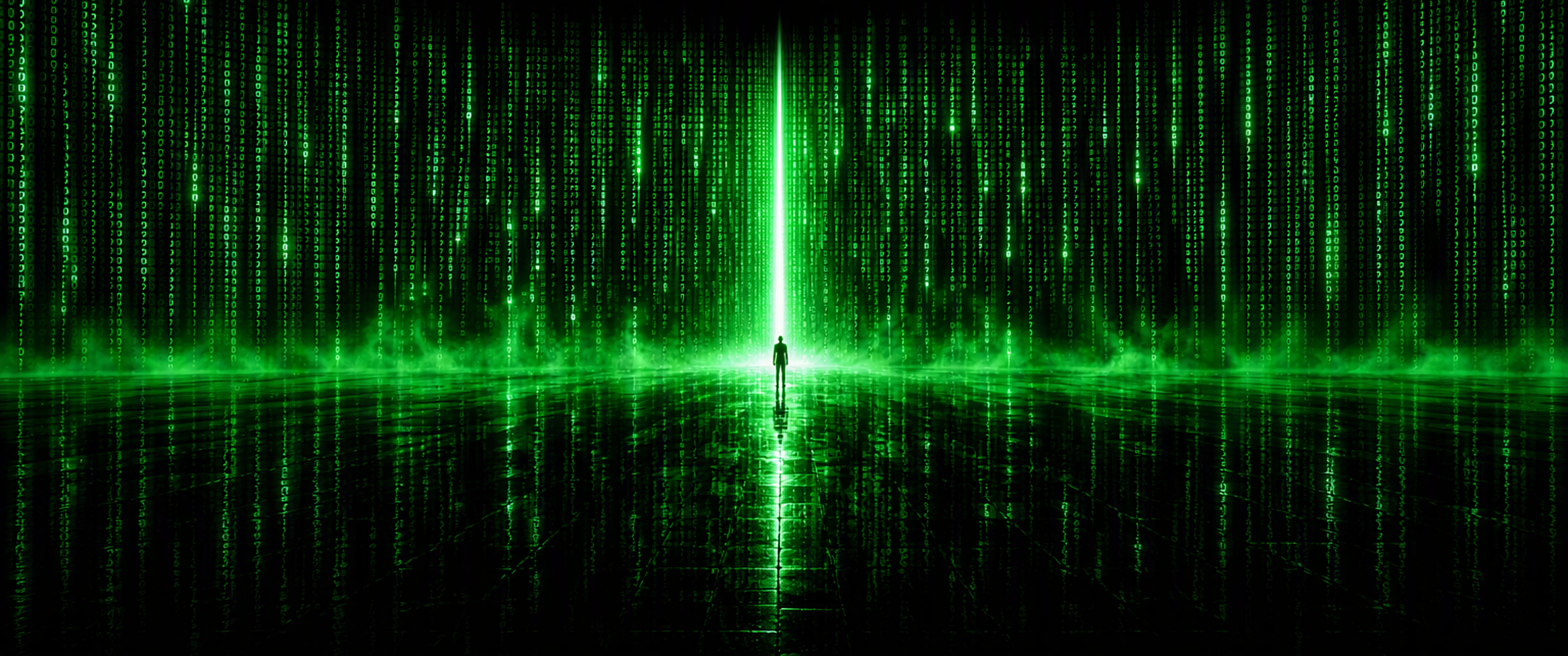
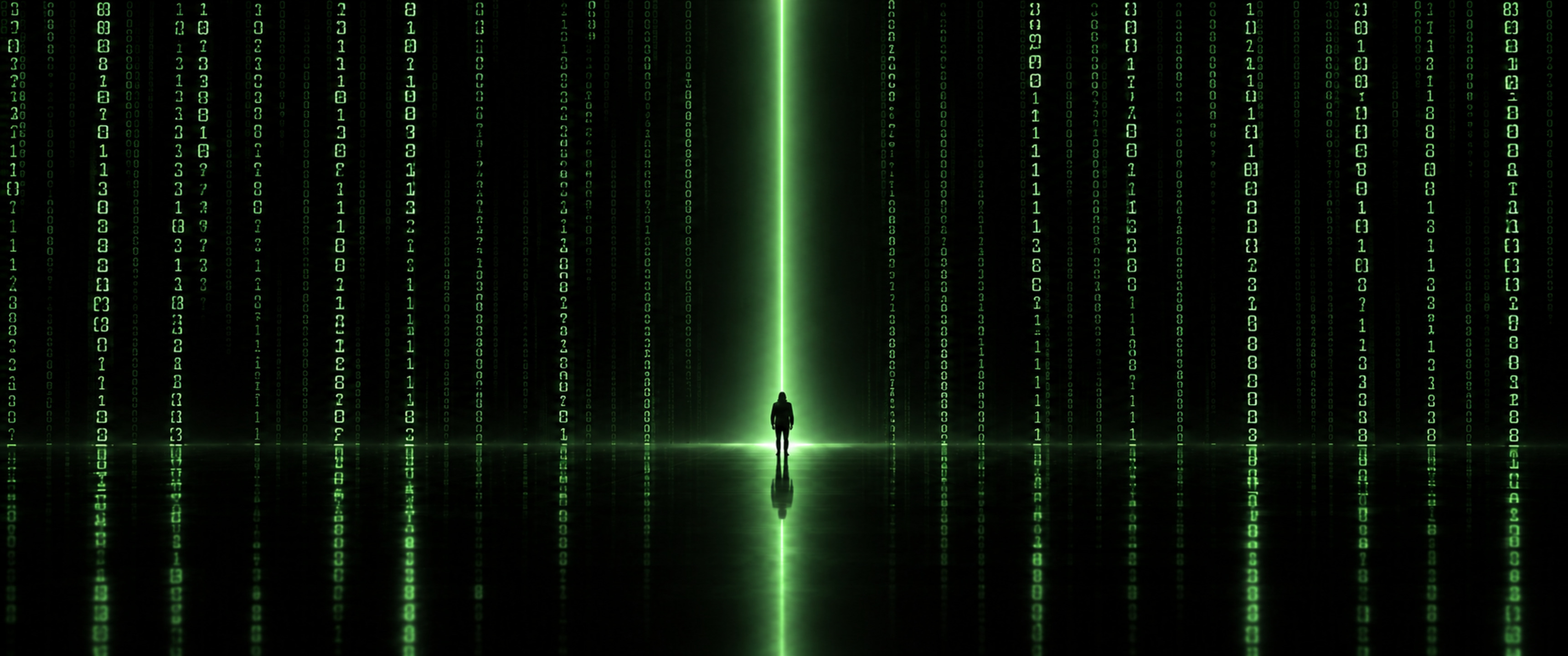
Wallpapers: refine Ascension terminal world

diff --git a/README.md b/README.md
@@ -48,8 +48,8 @@ floor. Tuned per display:
 - `2-ascension-16x9.jpg` (1920×1080) — the same moment for a standard
   monitor.
 
-Generated with gpt-image-2; the lock screen (`unlock.png`) reuses the same
-visual language.
+Generated with OpenAI image generation and refined through reference editing;
+the lock screen (`unlock.png`) reuses the same visual language.
 
 ## Credits
 
